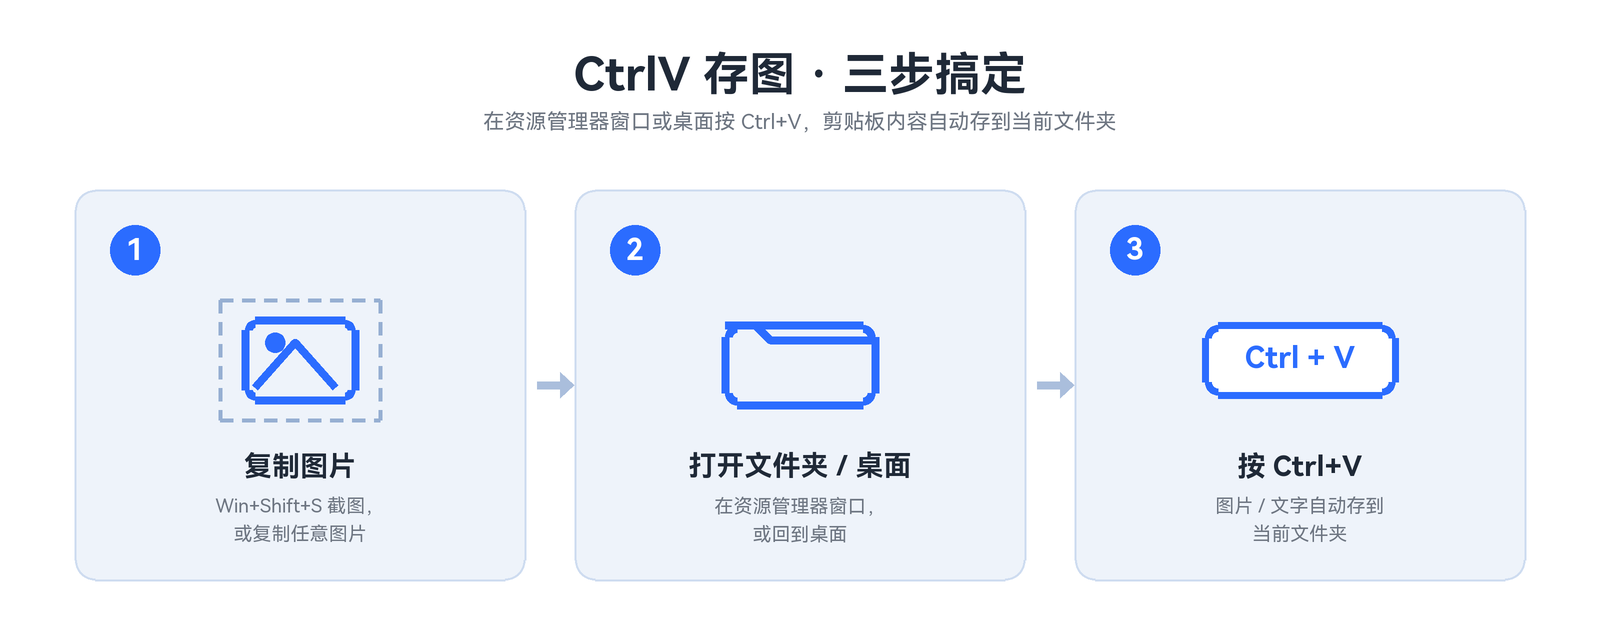
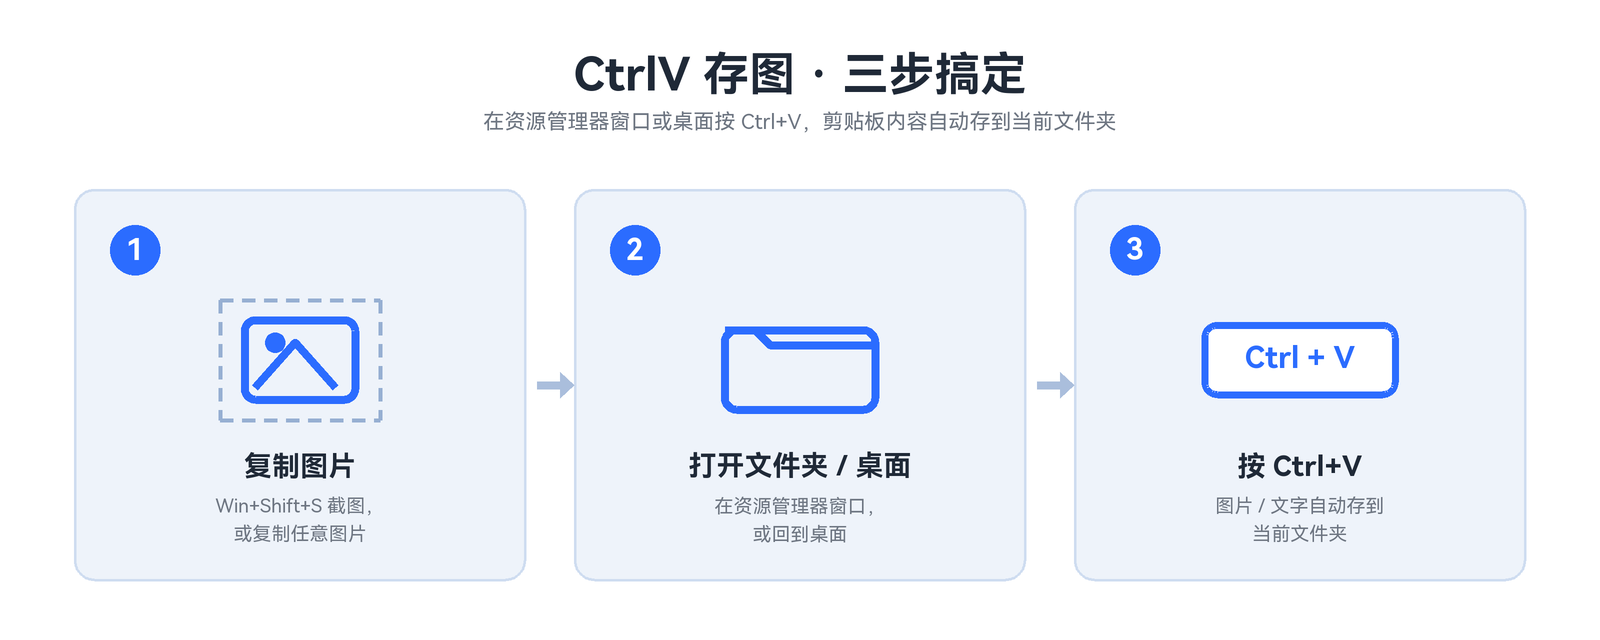
docs: 修复圆角与线条未连接的绘制问题

diff --git a/make_tutorial.py b/make_tutorial.py
@@ -16,6 +16,7 @@
 # along with this program.  If not, see <https://www.gnu.org/licenses/>.
 # -*- coding: utf-8 -*-
 """生成使用教程图 how-to-use.png（三步上手）。"""
+import math
 from PIL import Image, ImageDraw, ImageFont
 
 F = 2
@@ -24,7 +25,6 @@ BG = (255, 255, 255)
 CARD = (238, 243, 250)
 BORDER = (206, 220, 240)
 BLUE = (43, 108, 255)
-BLUE_D = (30, 80, 200)
 DARK = (31, 41, 55)
 GRAY = (110, 118, 130)
 WHITE = (255, 255, 255)
@@ -44,24 +44,33 @@ img = Image.new('RGB', (W, H), BG)
 d = ImageDraw.Draw(img)
 
 
-def rrect(box, r, fill=None, outline=None, width=1):
+def rpath(box, r, steps=28):
     x0, y0, x1, y1 = box
+    pts = [(x0 + r, y0), (x1 - r, y0)]
+    for i in range(1, steps + 1):
+        a = math.radians(-90 + 90.0 * i / steps)
+        pts.append((x1 - r + r * math.cos(a), y0 + r + r * math.sin(a)))
+    pts.append((x1, y1 - r))
+    for i in range(1, steps + 1):
+        a = math.radians(90.0 * i / steps)
+        pts.append((x1 - r + r * math.cos(a), y1 - r + r * math.sin(a)))
+    pts.append((x0 + r, y1))
+    for i in range(1, steps + 1):
+        a = math.radians(90 + 90.0 * i / steps)
+        pts.append((x0 + r + r * math.cos(a), y1 - r + r * math.sin(a)))
+    pts.append((x0, y0 + r))
+    for i in range(1, steps + 1):
+        a = math.radians(180 + 90.0 * i / steps)
+        pts.append((x0 + r + r * math.cos(a), y0 + r + r * math.sin(a)))
+    return pts
+
+
+def rrect(box, r, fill=None, outline=None, width=1):
+    pts = rpath(box, r)
     if fill:
-        d.rectangle([x0 + r, y0, x1 - r, y1], fill=fill)
-        d.rectangle([x0, y0 + r, x1, y1 - r], fill=fill)
-        d.pieslice([x0, y0, x0 + 2 * r, y0 + 2 * r], 180, 270, fill=fill)
-        d.pieslice([x1 - 2 * r, y0, x1, y0 + 2 * r], 270, 360, fill=fill)
-        d.pieslice([x0, y1 - 2 * r, x0 + 2 * r, y1], 90, 180, fill=fill)
-        d.pieslice([x1 - 2 * r, y1 - 2 * r, x1, y1], 0, 90, fill=fill)
+        d.polygon(pts, fill=fill)
     if outline:
-        d.arc([x0, y0, x0 + 2 * r, y0 + 2 * r], 180, 270, fill=outline, width=width)
-        d.arc([x1 - 2 * r, y0, x1, y0 + 2 * r], 270, 360, fill=outline, width=width)
-        d.arc([x0, y1 - 2 * r, x0 + 2 * r, y1], 90, 180, fill=outline, width=width)
-        d.arc([x1 - 2 * r, y1 - 2 * r, x1, y1], 0, 90, fill=outline, width=width)
-        d.line([x0 + r, y0, x1 - r, y0], fill=outline, width=width)
-        d.line([x0 + r, y1, x1 - r, y1], fill=outline, width=width)
-        d.line([x0, y0 + r, x0, y1 - r], fill=outline, width=width)
-        d.line([x1, y0 + r, x1, y1 - r], fill=outline, width=width)
+        d.line(pts + [pts[0]], fill=outline, width=width, joint='curve')
 
 
 def ctext(cx, y, text, fnt, color):
@@ -84,7 +93,6 @@ def arrow(cx, cy, size, color):
     d.polygon([(cx + size + 22, cy), (cx + size - 6, cy - 26), (cx + size - 6, cy + 26)], fill=color)
 
 
-# title
 ctext(W / 2, 96, 'CtrlV 存图 · 三步搞定', font(FB, 92), DARK)
 ctext(W / 2, 220, '在资源管理器窗口或桌面按 Ctrl+V，剪贴板内容自动存到当前文件夹', font(FR, 42), GRAY)
 
@@ -95,27 +103,24 @@ cards = [
 ]
 
 for x0, x1, num, title, sub in cards:
-    rrect([x0, 380, x1, 1160], 40, fill=CARD, outline=BORDER, width=4)
+    rrect([x0, 380, x1, 1160], 40, fill=CARD, outline=BORDER, width=5)
     cx = (x0 + x1) // 2
-    # badge
     d.ellipse([x0 + 70, 450, x0 + 170, 550], fill=BLUE)
     nw, nh = d.textsize(num, font=font(FB, 60))
     d.text((x0 + 120 - nw / 2, 450 + 50 - nh / 2 - 8), num, font=font(FB, 60), fill=WHITE)
-    # icon
     icy = 720
     if num == '1':
         dashed_rect([cx - 160, icy - 120, cx + 160, icy + 120], (150, 175, 210), 8)
-        rrect([cx - 110, icy - 80, cx + 110, icy + 80], 20, outline=BLUE, width=16)
+        rrect([cx - 110, icy - 80, cx + 110, icy + 80], 22, outline=BLUE, width=16)
         d.ellipse([cx - 70, icy - 55, cx - 30, icy - 15], fill=BLUE)
         d.line([cx - 90, icy + 55, cx - 10, icy - 35, cx + 70, icy + 55], fill=BLUE, width=16, joint='curve')
     elif num == '2':
-        d.line([cx - 150, icy - 70, cx - 90, icy - 70, cx - 60, icy - 40, cx + 150, icy - 40],
+        d.line([cx - 150, icy - 60, cx - 90, icy - 60, cx - 60, icy - 30, cx + 150, icy - 30],
                fill=BLUE, width=16, joint='curve')
-        rrect([cx - 150, icy - 70, cx + 150, icy + 90], 24, outline=BLUE, width=16)
+        rrect([cx - 150, icy - 60, cx + 150, icy + 100], 24, outline=BLUE, width=16)
     else:
         rrect([cx - 190, icy - 70, cx + 190, icy + 70], 26, fill=WHITE, outline=BLUE, width=14)
         ctext(cx, icy - 40, 'Ctrl + V', font(FB, 60), BLUE)
-    # texts
     ctext(cx, 900, title, font(FB, 56), DARK)
     for i, line in enumerate(sub.split('\n')):
         ctext(cx, 990 + i * 56, line, font(FR, 38), GRAY)

diff --git a/make_features.py b/make_features.py
@@ -16,6 +16,7 @@
 # along with this program.  If not, see <https://www.gnu.org/licenses/>.
 # -*- coding: utf-8 -*-
 """生成功能特性图 features.png。"""
+import math
 from PIL import Image, ImageDraw, ImageFont
 
 F = 2
@@ -42,23 +43,33 @@ img = Image.new('RGB', (W, H), BG)
 d = ImageDraw.Draw(img)
 
 
-def rrect(box, r, fill=None, outline=None, width=1):
+def rpath(box, r, steps=28):
     x0, y0, x1, y1 = box
-    d.rectangle([x0 + r, y0, x1 - r, y1], fill=fill)
-    d.rectangle([x0, y0 + r, x1, y1 - r], fill=fill)
-    d.pieslice([x0, y0, x0 + 2 * r, y0 + 2 * r], 180, 270, fill=fill)
-    d.pieslice([x1 - 2 * r, y0, x1, y0 + 2 * r], 270, 360, fill=fill)
-    d.pieslice([x0, y1 - 2 * r, x0 + 2 * r, y1], 90, 180, fill=fill)
-    d.pieslice([x1 - 2 * r, y1 - 2 * r, x1, y1], 0, 90, fill=fill)
+    pts = [(x0 + r, y0), (x1 - r, y0)]
+    for i in range(1, steps + 1):
+        a = math.radians(-90 + 90.0 * i / steps)
+        pts.append((x1 - r + r * math.cos(a), y0 + r + r * math.sin(a)))
+    pts.append((x1, y1 - r))
+    for i in range(1, steps + 1):
+        a = math.radians(90.0 * i / steps)
+        pts.append((x1 - r + r * math.cos(a), y1 - r + r * math.sin(a)))
+    pts.append((x0 + r, y1))
+    for i in range(1, steps + 1):
+        a = math.radians(90 + 90.0 * i / steps)
+        pts.append((x0 + r + r * math.cos(a), y1 - r + r * math.sin(a)))
+    pts.append((x0, y0 + r))
+    for i in range(1, steps + 1):
+        a = math.radians(180 + 90.0 * i / steps)
+        pts.append((x0 + r + r * math.cos(a), y0 + r + r * math.sin(a)))
+    return pts
+
+
+def rrect(box, r, fill=None, outline=None, width=1):
+    pts = rpath(box, r)
+    if fill:
+        d.polygon(pts, fill=fill)
     if outline:
-        d.arc([x0, y0, x0 + 2 * r, y0 + 2 * r], 180, 270, fill=outline, width=width)
-        d.arc([x1 - 2 * r, y0, x1, y0 + 2 * r], 270, 360, fill=outline, width=width)
-        d.arc([x0, y1 - 2 * r, x0 + 2 * r, y1], 90, 180, fill=outline, width=width)
-        d.arc([x1 - 2 * r, y1 - 2 * r, x1, y1], 0, 90, fill=outline, width=width)
-        d.line([x0 + r, y0, x1 - r, y0], fill=outline, width=width)
-        d.line([x0 + r, y1, x1 - r, y1], fill=outline, width=width)
-        d.line([x0, y0 + r, x0, y1 - r], fill=outline, width=width)
-        d.line([x1, y0 + r, x1, y1 - r], fill=outline, width=width)
+        d.line(pts + [pts[0]], fill=outline, width=width, joint='curve')
 
 
 def ctext(cx, y, text, fnt, color):
@@ -68,8 +79,8 @@ def ctext(cx, y, text, fnt, color):
 
 def check(cx, cy, r):
     d.ellipse([cx - r, cy - r, cx + r, cy + r], fill=BLUE)
-    d.line([cx - r * 0.42, cy + r * 0.02, cx - r * 0.08, cy + r * 0.38], fill=WHITE, width=12)
-    d.line([cx - r * 0.08, cy + r * 0.38, cx + r * 0.48, cy - r * 0.34], fill=WHITE, width=12)
+    d.line([cx - r * 0.42, cy + r * 0.02, cx - r * 0.08, cy + r * 0.38], fill=WHITE, width=13, joint='curve')
+    d.line([cx - r * 0.08, cy + r * 0.38, cx + r * 0.48, cy - r * 0.34], fill=WHITE, width=13, joint='curve')
 
 
 ctext(W / 2, 70, '功能特性', font(FB, 84), DARK)
@@ -91,7 +102,7 @@ for i, (t, s) in enumerate(items):
     row = i // 2
     x0 = margin + col * (cw + gap)
     y0 = top + row * (ch + vgap)
-    rrect([x0, y0, x0 + cw, y0 + ch], 32, fill=CARD, outline=BORDER, width=4)
+    rrect([x0, y0, x0 + cw, y0 + ch], 32, fill=CARD, outline=BORDER, width=5)
     cy = y0 + ch // 2
     check(x0 + 110, cy, 44)
     d.text((x0 + 190, cy - 52), t, font=font(FB, 50), fill=DARK)
